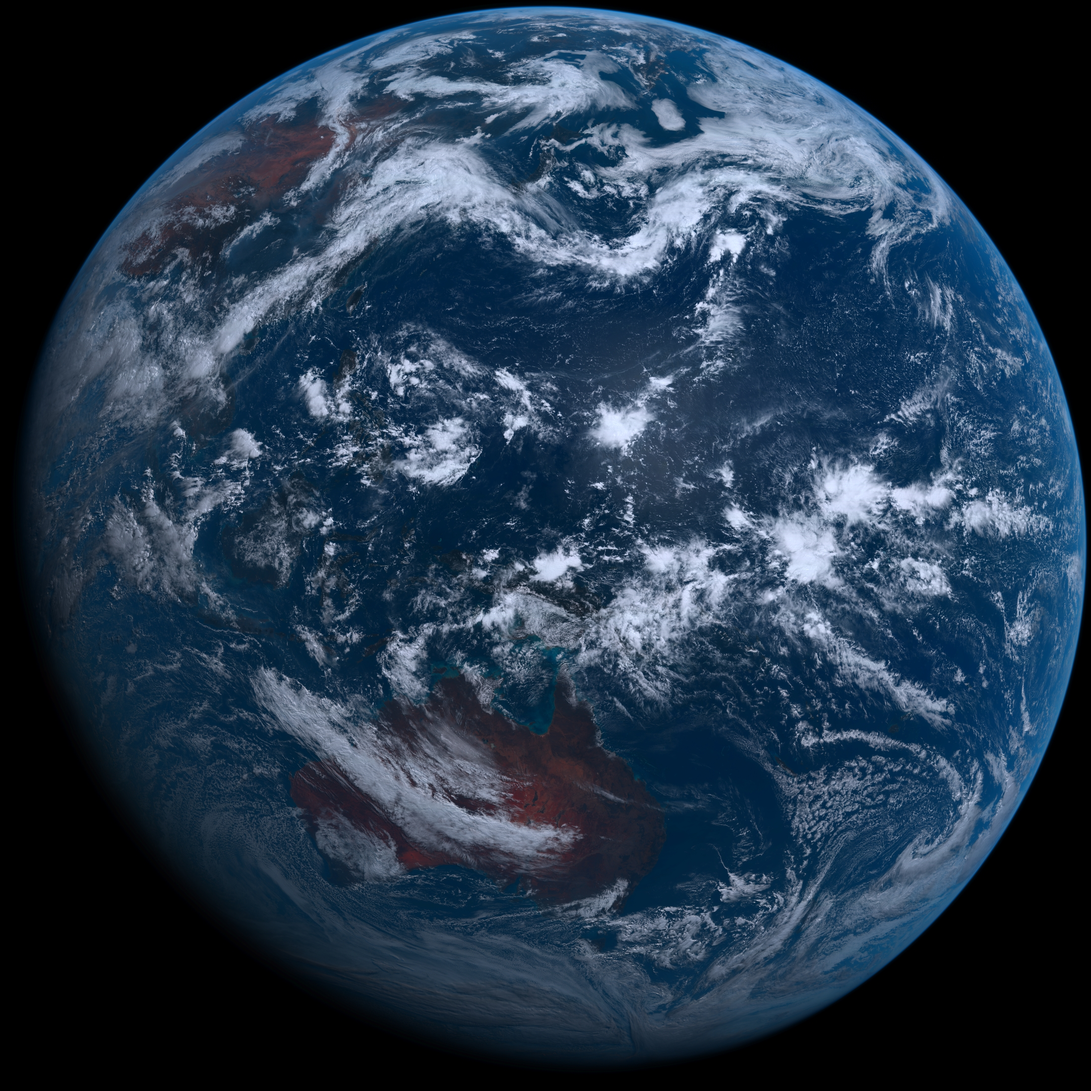
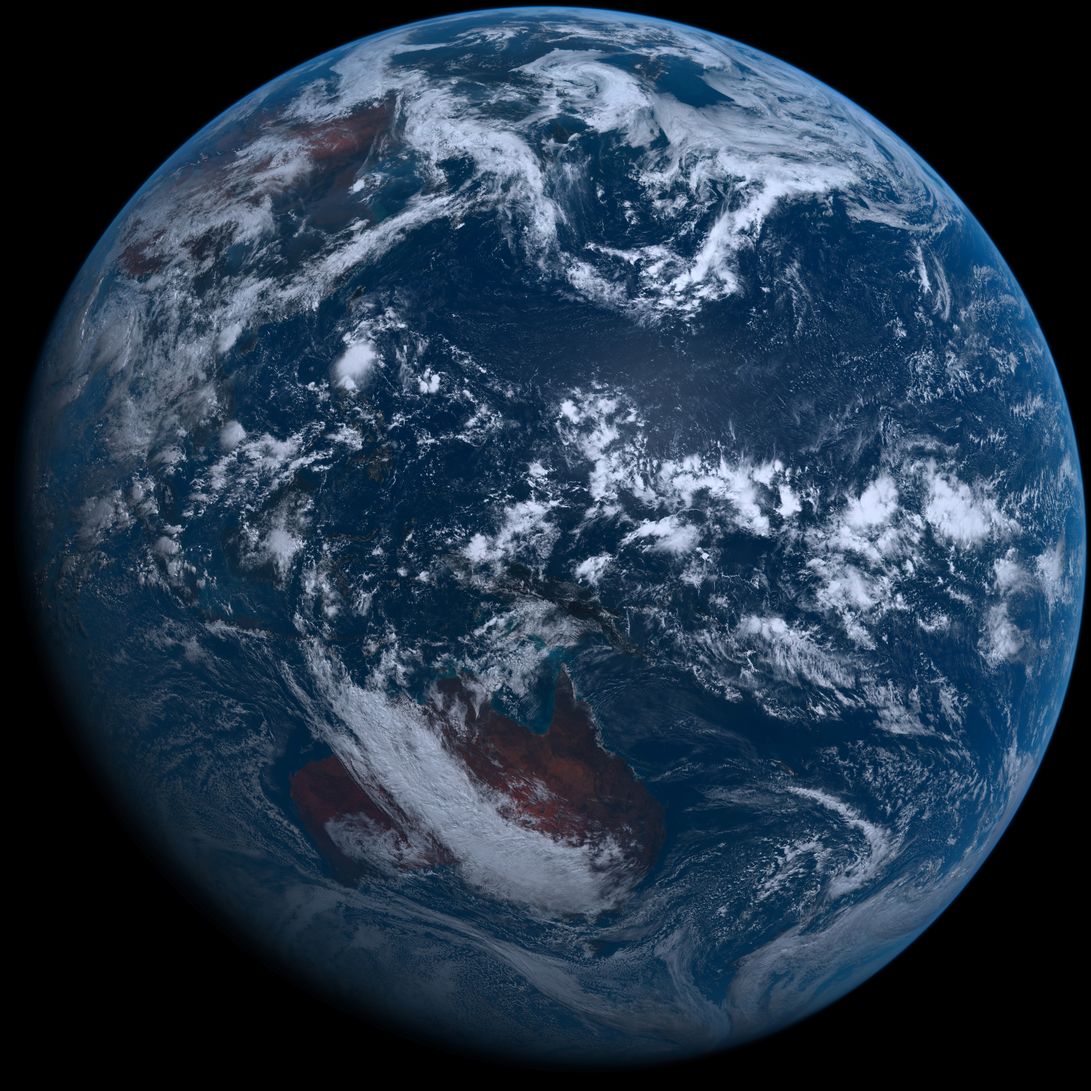
Tuesday 06/27/2023 03:23 +00

diff --git a/README.md b/README.md
@@ -1,12 +1,12 @@
 # ps1
 
 - ### [BingWallpaper](https://github.com/milankomaj/ps1/wiki/BingWallpaper)  [![Generate Wallpapers Github README.md](https://github.com/milankomaj/ps1/actions/workflows/GenWall.yml/badge.svg?event=schedule)](https://github.com/milankomaj/ps1/actions/workflows/GenWall.yml)
-- ##### Monday 26/06/2023 03:26:25 +00
+- ##### Tuesday 27/06/2023 03:22:29 +00
 <img src="BingWallpaper/latest.jpg" width="700" height="auto" title="👉  BingWallpaper  👈">
 
 
 - ### [Himawari](https://github.com/milankomaj/ps1/wiki/Himawari) [![Generate Wallpapers Github README.md](https://github.com/milankomaj/ps1/actions/workflows/GenWall.yml/badge.svg?event=schedule)](https://github.com/milankomaj/ps1/actions/workflows/GenWall.yml) [![Video](https://github.com/milankomaj/ps1/actions/workflows/video.yml/badge.svg?event=schedule)](https://github.com/milankomaj/ps1/actions/workflows/video.yml)
-- ##### Monday 26/06/2023 03:27:01 +00
+- ##### Tuesday 27/06/2023 03:23:03 +00
 <img src="Himawari/latest.jpg" width="auto" height="371" title="👉  Himawari  👈"> <img src="Himawari/pifd/himawari_pifd.webp" width="auto" height="371"/>
 
 
